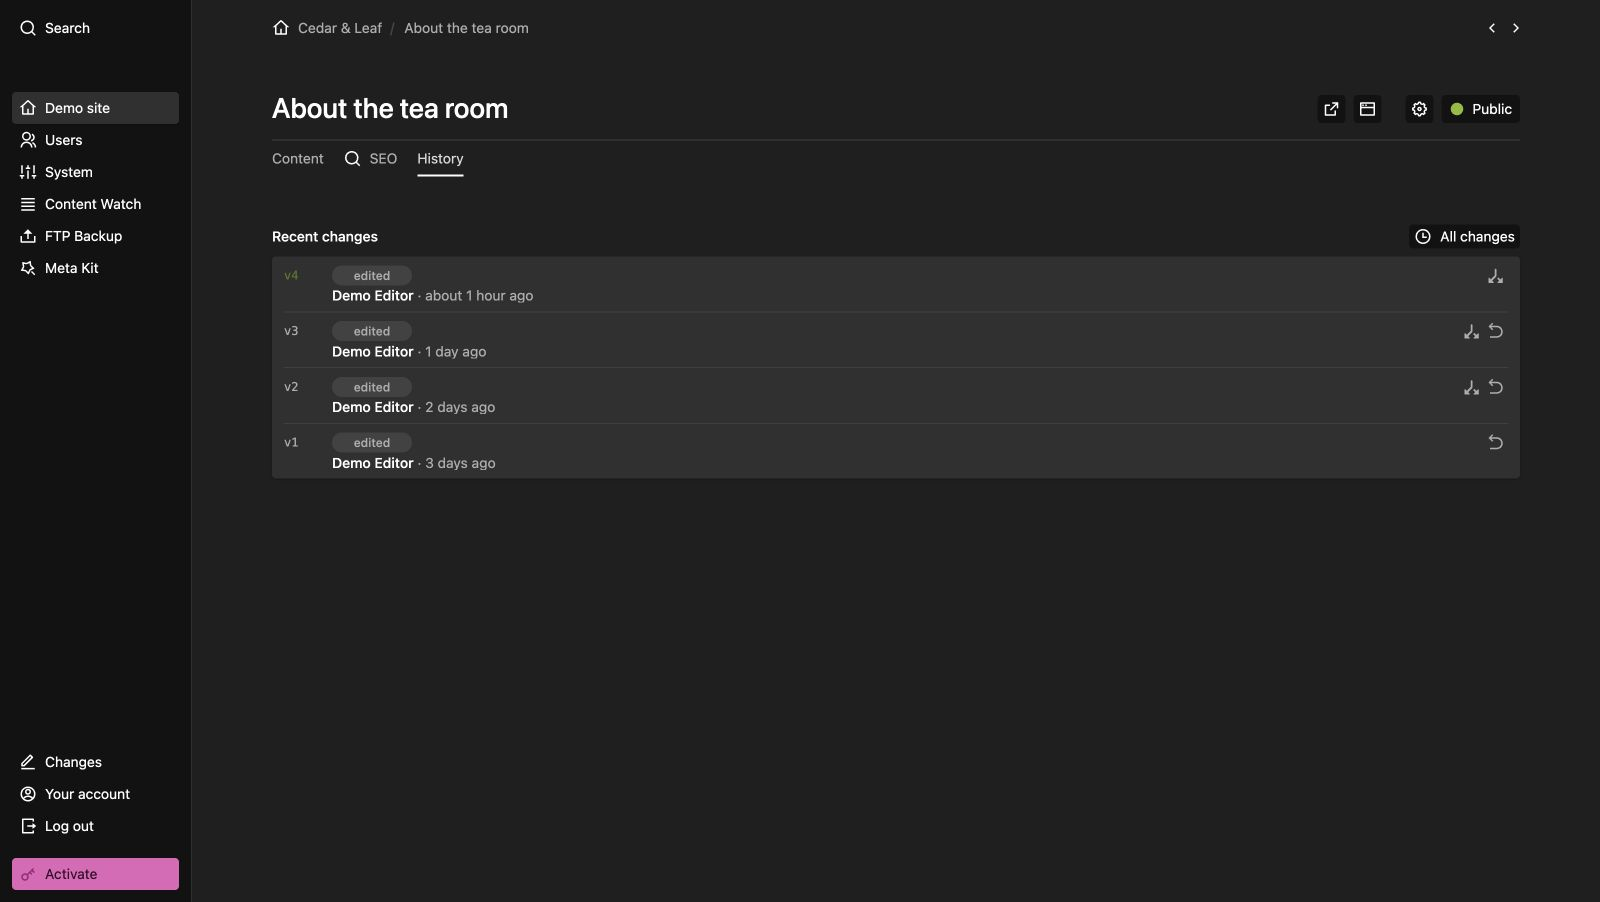
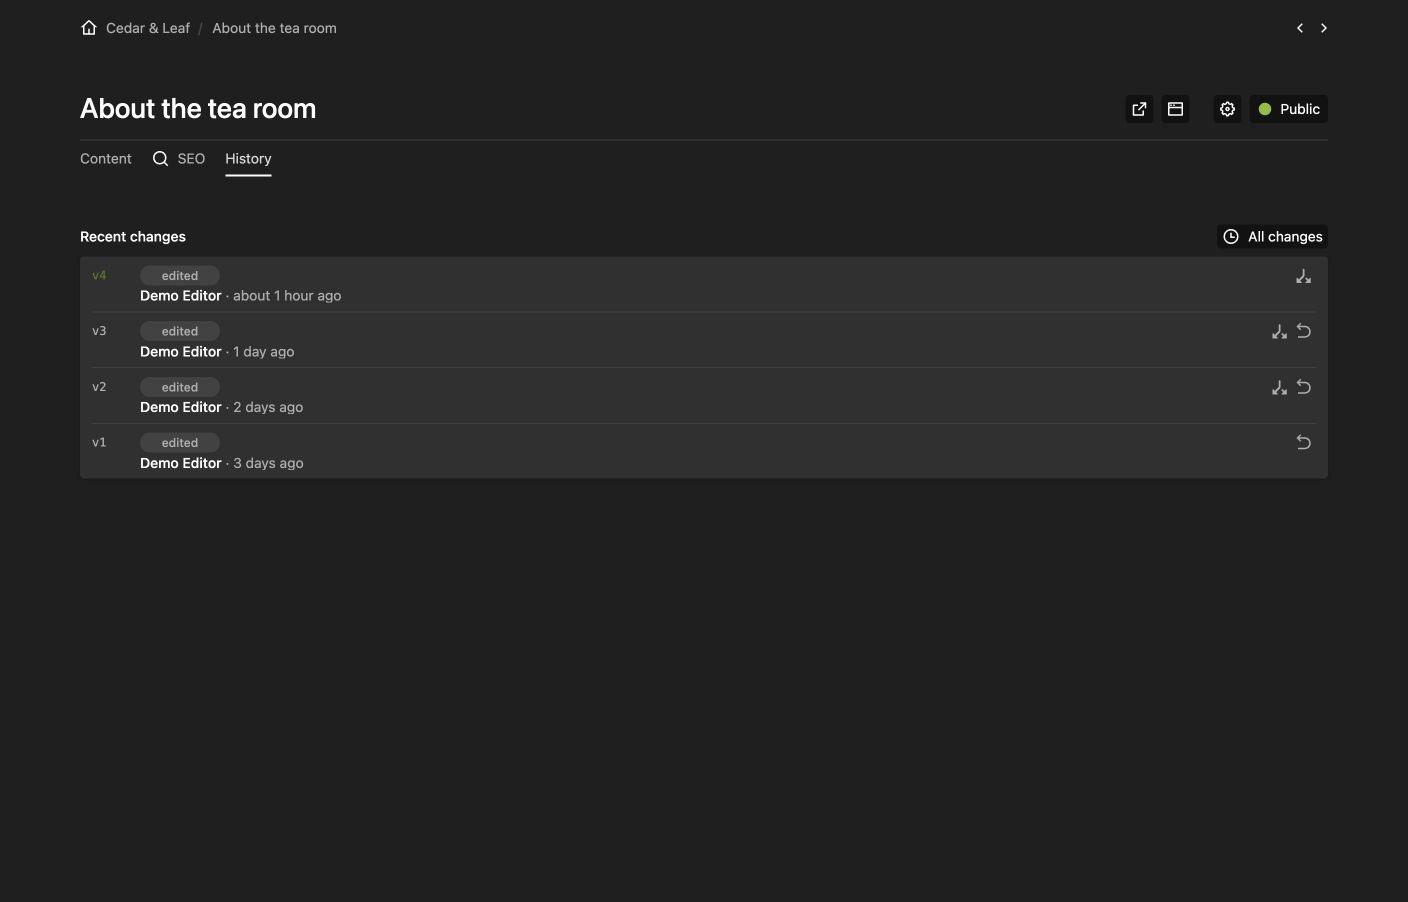
docs: refine screenshots and remove Panel sidebar

diff --git a/README.md b/README.md
@@ -262,7 +262,7 @@ This plugin is licensed under the [MIT License](LICENSE)
 
 ## Screenshots
 
-Screenshots use fictional Cedar & Leaf sample content at 1600 × 902 pixels. The main image uses the light theme.
+Screenshots use sample content at 1408 × 902 pixels. Panel views are cropped to the content area. The main image uses the light theme.
 
 | View | Light | Dark |
 | --- | --- | --- |
